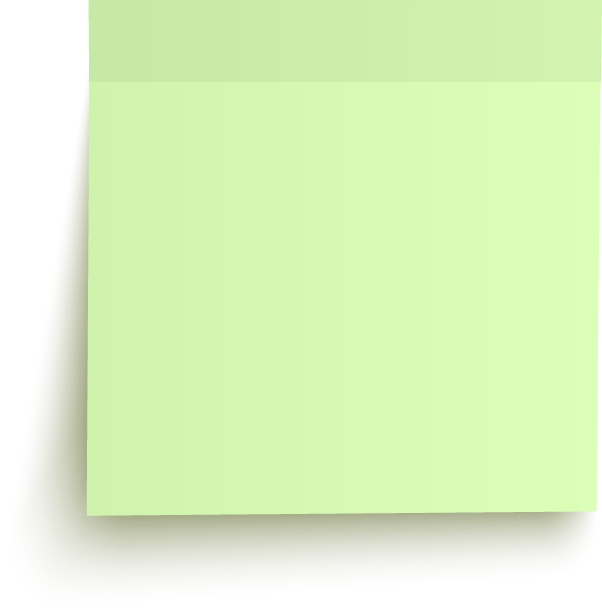
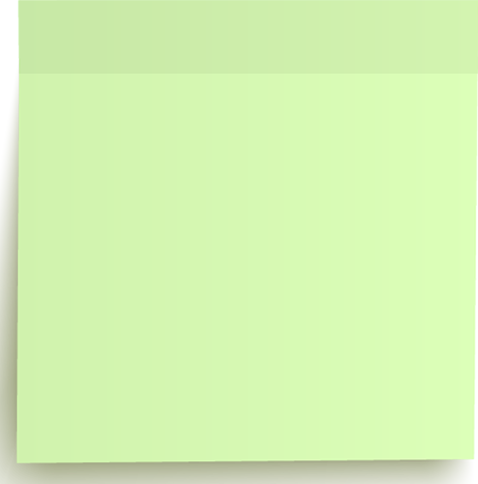
landing page changes

Changed region(s): [[0.0, 0.0, 0.9958, 1.0], [0.9958, 0.062, 1.0, 0.4339], [0.9665, 0.5888, 0.9958, 0.6198]]

diff --git a/client/src/components/SignUp/SignUp.css b/client/src/components/SignUp/SignUp.css
@@ -1,15 +1,18 @@
 .signUpPopUp{
     position: relative;
-    height: 541px;
-    width: 693px;
-    min-width: 500px;
-    background-image: url('../Assets/greenSticky.png');
+    top: 111px;
+    right: 310px;
+    height: 421px;
+    width: 476px;
+    line-height: 69px;
+    min-width: 468px;
+    background-image: url(../Assets/greenSticky.png);
+    background-size: 476px 421px;
     display: flex;
     justify-content: flex-start;
     flex-direction: column;
     flex-wrap: wrap;
     align-content: space-around;
-    
 }
 
 .popup-inner{
@@ -18,26 +21,27 @@
 }
 
 #signUpHead{
-    font-family: 'Amatic SC', cursive;
+    font-family: 'Josefin Slab', serif;
     font-style: normal;
     font-weight: 100;
-    font-size: 64px;
+    font-size: 58px;
     text-decoration: underline wavy black 1px;;
     position: relative;
-    left: 140px;
-    top: -39px;
+    left: -9px;
+    top: -26px;
     text-shadow: 2px 2px rgb(244, 135, 250);
 }
 
 #formSignUp{
-    line-height: 1.25;
-    font-family: 'Amatic SC', cursive;
+    line-height: 2.5;
+    font-family: 'Josefin Slab', serif;
+    text-decoration: underline dotted black 2px;
     font-style: normal;
     font-weight: 500;
-    font-size: 37px;
+    font-size: 33px;
     position: relative;
-    top: -52px;
-    /* left: 62px; */
+    top: -51px;
+    left: 9px;
 }
 
 label{
@@ -46,10 +50,10 @@ label{
 
 .popup-inner .submit-btn{
     /* text-decoration: underline wavy black 1px; */
-    font-family: 'Amatic SC', cursive;
-    font-size: 52px;
+    font-family: 'Josefin Slab', serif;
+    font-size: 50px;
     position: relative;
-    bottom: 38px;
+    bottom: 42px;
     left: 148px;
     border: lightskyblue 6px dotted;
     text-shadow: 2px 2px lightskyblue;
@@ -70,7 +74,8 @@ input[type="text" i] {
 
 input {
     writing-mode: horizontal-tb !important;
-    font-family: 'Amatic SC', cursive;
+    font-family: 'Josefin Slab', serif;
+    
     font-style: normal;
     font-weight: 500;
     font-size: 34px;
@@ -106,15 +111,15 @@ input {
 }
 
 input[type=text]:not(.browser-default),input[type=password]:not(.browser-default){
-    background-color: #fcfcfc;
+    background-color: transparent;
     border: none;
-    border-bottom: 2px solid #000000;
+    border-bottom: 2px solid #000000 important!;
     border-radius: 0;
     outline: none;
     height: 3rem;
-    width: 100%;
+    width: 300px;
     font-size: 31px;
-    margin: 0 0 8px 0;
+    margin: 0 0 6px 0;
     padding: 0;
     -webkit-box-shadow: none;
     box-shadow: none;
@@ -126,9 +131,7 @@ input[type=text]:not(.browser-default),input[type=password]:not(.browser-default
     transition: box-shadow .3s, border .3s, -webkit-box-shadow .3s;
 }
 
-/* input[type=text]:not(.browser-default):focus:not([readonly]){
 
-} */
 
 
 

diff --git a/client/src/components/Login/Login.css b/client/src/components/Login/Login.css
@@ -1,34 +1,47 @@
 .loginPopup{ 
-    /*position: relative;
-     height: 398px;
-    width: 628px;
-    min-width: 500px; */
+    position: relative;
+    top: 24px;
+    right: 100px;
+    height: 360px;
+    width: 480px;
+    min-width: 480px;
+    background-image: url(../Assets/dinoSticky.png);
+    background-size: 480px 360px;
     display: flex;
-    box-shadow: 2px;
+    justify-content: flex-start;
+    flex-direction: column;
+    flex-wrap: wrap;
+    align-content: space-around;
 } 
 
 .loginPopup-inner{
     position: relative;
+    right: 7px;
+    top: 2px;
+    line-height: 20px;
+    padding: 3px;
 }
 
 #loginHead{
-    font-family: 'Amatic SC', sans-serif;
+    font-family: 'Josefin Slab', serif;
     font-style: normal;
     font-weight: 100;
-    font-size: 64px;
-    text-decoration: underline solid black 3px;
+    font-size: 54px;
+    text-decoration: underline dotted black 2px;
     position: relative;
-    left: 88px;
+    left: 9px;
+    top: -37px;
 }
 
 #formLogin{
-    line-height: 1.75;
-    font-family: 'Amatic SC', cursive;
+    line-height: 2.5;
+    font-family: 'Josefin Slab', serif;
     font-weight: 585;
-    font-size: 36px;
+    font-size: 34px;
     position: relative;
     bottom: 32px;
-    text-decoration: underline solid black 2px;
+    right: -21px;
+    text-decoration: underline dotted black 2px;
 }
 
 input {
@@ -36,14 +49,21 @@ input {
 }
 
 .login-btn{
-    font-family: 'Amatic SC', cursive;
+    font-family: 'Josefin Slab', serif;
     position: relative;
-    left: 80px;
-    text-decoration: underline solid black 3px;
-    font-size: 72px;
-    /* text-shadow: 3px 3px rgb(5, 225, 141); */
+    left: 138px;
+    top: -5px;
+    text-decoration: underline dotted black 2px;
+    font-size: 54px;
+    
+}
+
+.login-btn:hover{
+    cursor: pointer;
+    /* box-shadow: 0px 9px 7px -5px rgb(26, 26, 26); */
+    transform: scale(1.25);
 }
 
 input[type=text]:not(.browser-default) {
-    border-bottom: 2px solid black;
+    border-bottom: 2px solid rgb(0, 0, 0);
 }

diff --git a/client/public/index.html b/client/public/index.html
@@ -16,7 +16,7 @@
     <link rel="preconnect" href="https://fonts.googleapis.com">
     <link rel="preconnect" href="https://fonts.gstatic.com" crossorigin>
     <script src="https://cdnjs.cloudflare.com/ajax/libs/materialize/1.0.0/js/materialize.min.js"></script>
-    <link href="https://fonts.googleapis.com/css2?family=Pangolin&family=Fredericka+the+Great&family=Amatic+SC&family=Sacramento&family=Londrina+Outline&family=Rampart+One&family=Satisfy&display=swap" rel="stylesheet">
+    <link href="https://fonts.googleapis.com/css2?family=Pangolin&family=Fredericka+the+Great&family=Josefin+Slab:wght@500&family=Sacramento&family=Londrina+Outline&family=Rampart+One&family=Satisfy&display=swap" rel="stylesheet">
     <link rel="stylesheet" href="https://use.typekit.net/mcf5phz.css">
     <link rel="stylesheet" href="https://cdnjs.cloudflare.com/ajax/libs/materialize/1.0.0/css/materialize.min.css">
     <link href="https://fonts.googleapis.com/icon?family=Material+Icons" rel="stylesheet">

diff --git a/client/src/pages/Login.css b/client/src/pages/Login.css
@@ -1,8 +1,5 @@
-.loginPopup{ 
-    /*position: relative;
-     height: 398px;
-    width: 628px;
-    min-width: 500px; */
+/* .loginPopup{ 
+    
    
      
     display: flex;
@@ -44,5 +41,5 @@ input {
     
     
     text-decoration: underline dotted black 2px;
-    /* text-shadow: 3px 3px rgb(5, 225, 141); */
-}
+    
+} */

diff --git a/client/src/pages/Home.js b/client/src/pages/Home.js
@@ -17,7 +17,7 @@ const Home = () => {
         <div>
 
 
-          <h2>Deck Out</h2>
+          <h2>Decked-Out</h2>
 
           <Carousel_Home/>
           <SearchBar categories={categories}/>
